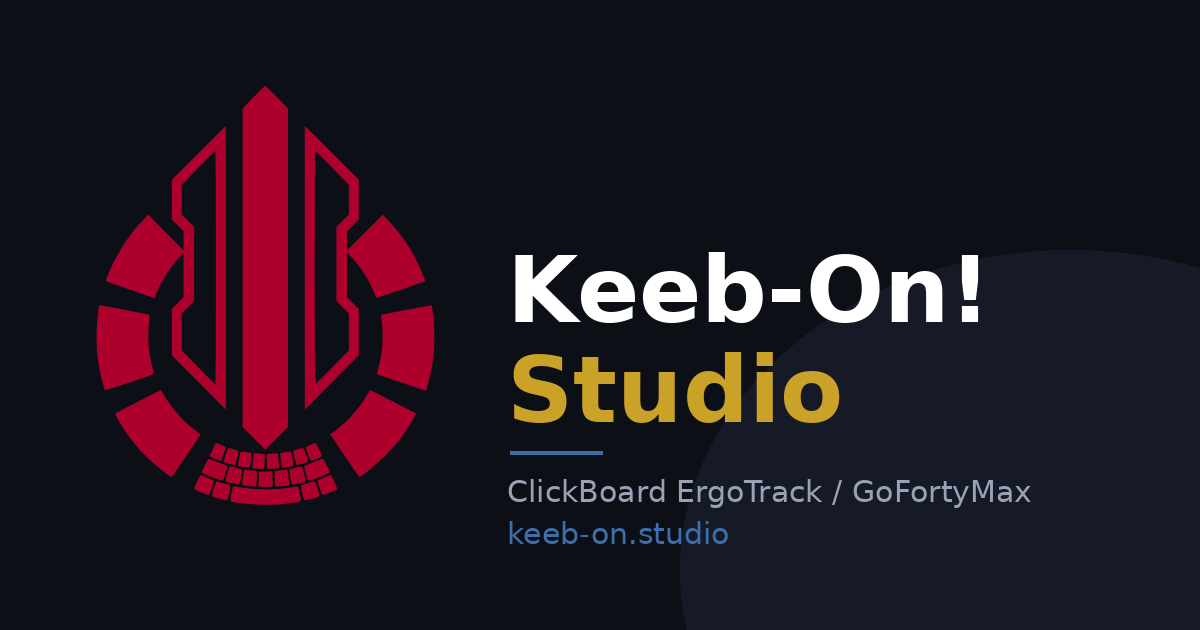
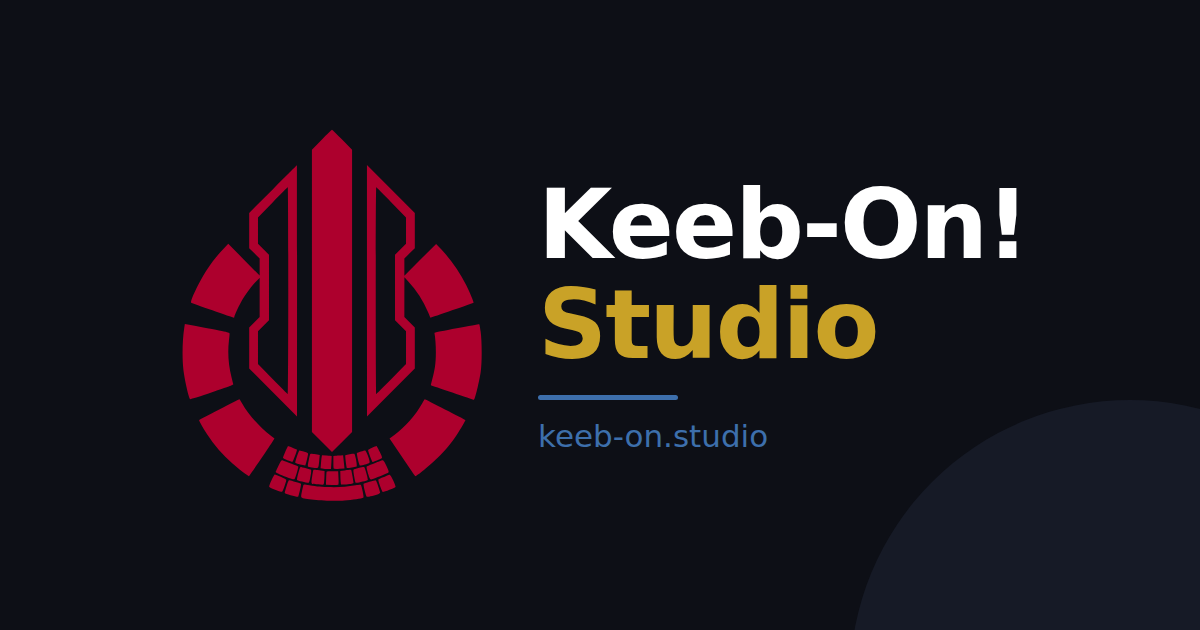
Stop naming two keyboards in the parts that outlive them
More keyboards are planned, so a banner and a welcome line that name exactly
two of them date themselves the moment a third arrives. The app still supports
only those two -- `supportedDevices.ts` is unchanged -- but the copy now says
whose keyboards they are rather than which.

The banner is also recentred. It was 73 pixels off: 96 of margin on the left
and 169 on the right, which is enough to read as a mistake rather than a
choice. With the keyboard line gone it is now 182 and 183.

Its source is checked in this time. The previous banner existed only as a PNG,
so removing one line from it meant sampling colours out of the pixels and
working out the font by rendering candidates and comparing letterforms. It was
DejaVu Sans, which is what the container's Chromium picks for sans-serif --
the app names Inter but has never shipped it. design/og-image.html and the
script that renders it mean the next change is an edit rather than an
excavation.

One thing the layout needed that the old one did not: the type block's right
edge is ragged, because "Keeb-On!" is wider than the lines beneath it.
Centring the box therefore leaves the ink looking a few pixels left of centre,
so the group is nudged to balance what you see rather than what the box
measures.

The Supported keyboards list still names both. That is a list of facts rather
than a claim about scope, and removing it would leave no answer to "will it
work with mine" -- so it waits on a decision rather than being quietly
[…]

Changed region(s): [[0.0617, 0.1206, 0.8633, 0.8143], [0.4008, 0.754, 0.8633, 0.8746]]

diff --git a/design/og-image.html b/design/og-image.html
@@ -1,0 +1,189 @@
+<!doctype html>
+<!--
+  Source for public/og-image.png -- the link preview card.
+
+  Render it with design/render-og-image.mjs, which screenshots this at
+  1200x630. Keep this file: the previous banner existed only as a PNG, so
+  changing one line of it meant measuring colours out of the pixels and
+  guessing the font.
+
+  Two things are deliberate. The font is DejaVu Sans because that is what the
+  original was rendered with, and anything else visibly changes the
+  letterforms. And no keyboard is named: more are planned, and a banner that
+  lists two of them dates itself the moment a third arrives.
+-->
+<html>
+  <head>
+    <meta charset="utf-8" />
+    <title>Keeb-On! Studio — link preview</title>
+    <style>
+      * {
+        margin: 0;
+        padding: 0;
+        box-sizing: border-box;
+      }
+      html,
+      body {
+        width: 1200px;
+        height: 630px;
+      }
+      body {
+        background: #0d0f16;
+        display: flex;
+        align-items: center;
+        justify-content: center;
+        font-family: "DejaVu Sans", sans-serif;
+        overflow: hidden;
+        position: relative;
+      }
+      /* A corner accent, kept clear of the type. */
+      .disc {
+        position: absolute;
+        right: -210px;
+        bottom: -330px;
+        width: 560px;
+        height: 560px;
+        border-radius: 50%;
+        background: #161a26;
+      }
+      .group {
+        display: flex;
+        align-items: center;
+        gap: 56px;
+        position: relative;
+        z-index: 1;
+        /* The type's right edge is ragged -- "Keeb-On!" is wider than the lines
+       under it -- so centring the box leaves it looking a few pixels left.
+       This balances the ink rather than the box. */
+        transform: translateX(5px);
+      }
+      .mark {
+        width: 300px;
+        height: 372px;
+        display: block;
+      }
+      .mark svg {
+        width: 100%;
+        height: 100%;
+        display: block;
+      }
+      .words {
+        display: flex;
+        flex-direction: column;
+      }
+      .name {
+        font-size: 96px;
+        font-weight: 700;
+        color: #ffffff;
+        letter-spacing: -0.02em;
+        line-height: 1.04;
+      }
+      .studio {
+        font-size: 96px;
+        font-weight: 700;
+        color: #c9a227;
+        letter-spacing: -0.02em;
+        line-height: 1.04;
+      }
+      .rule {
+        width: 140px;
+        height: 5px;
+        background: #3d6fac;
+        margin: 20px 0 18px;
+        border-radius: 3px;
+      }
+      .url {
+        font-size: 31px;
+        font-weight: 400;
+        color: #3d6fac;
+      }
+    </style>
+  </head>
+  <body>
+    <div class="disc"></div>
+    <div class="group">
+      <span class="mark"
+        ><svg xmlns="http://www.w3.org/2000/svg" viewBox="0 0 545 676">
+          <g transform="translate(0,676) scale(0.1,-0.1)">
+            <path
+              fill="#ad002d"
+              stroke="none"
+              d="M2538 6566 l-178 -183 0 -2564 0 -2564 183 -183 182 -182 183 183
+182 182 0 2564 0 2564 -177 181 c-98 100 -182 182 -188 183 -5 1 -90 -81 -187
+-181z M1652 5667 l-432 -432 0 -320 0 -320 95 -95 95 -95 0 -154 0 -155 -285
+290 -285 289 -81 -85 c-115 -121 -198 -225 -301 -380 -134 -201 -319 -586
+-292 -609 9 -8 763 -271 777 -271 4 0 7 6 7 13 0 25 91 221 145 313 69 117
+186 272 259 344 l56 54 0 -355 0 -354 -95 -95 -95 -95 0 -373 0 -373 435 -437
+434 -437 1 2283 c0 1255 -1 2282 -3 2282 -1 0 -197 -195 -435 -433z m278
+-1848 c0 -1104 -4 -1879 -9 -1877 -5 2 -129 125 -275 274 l-266 272 0 297 0
+298 100 102 100 101 0 595 0 594 -100 100 -100 100 0 239 0 239 266 273 c147
+151 270 274 275 274 5 0 9 -797 9 -1881z M3360 3820 l1 -2285 434 437 435 438
+0 372 0 373 -95 95 -95 95 0 360 1 360 66 -70 c153 -163 277 -353 362 -560 23
+-54 43 -101 45 -103 4 -3 775 264 783 271 7 8 -68 188 -134 321 -121 242 -272
+459 -449 645 l-97 102 -289 -288 -288 -288 0 155 0 155 95 95 95 95 0 320 0
+320 -435 435 -435 435 0 -2285z m444 1606 l266 -274 0 -239 0 -238 -100 -100
+-100 -100 0 -594 0 -595 100 -101 100 -102 0 -298 0 -297 -266 -272 c-147
+-149 -271 -272 -275 -274 -5 -2 -9 842 -9 1877 0 1053 4 1881 9 1881 4 0 128
+-123 275 -274z M41 3151 c-35 -214 -42 -558 -16 -770 24 -190 97 -508 123
+-532 4 -4 183 52 397 125 301 101 389 134 386 146 -2 8 -16 66 -32 129 -56
+219 -72 446 -47 663 6 57 12 114 12 128 1 26 -3 27 -736 163 l-77 14 -10 -66z
+M4990 3140 c-223 -41 -404 -79 -404 -83 31 -173 35 -455 10 -617 -9 -58 -30
+-156 -47 -219 -16 -62 -29 -115 -27 -116 4 -3 778 -265 783 -265 17 0 95 326
+122 505 25 172 24 551 -1 733 -10 73 -21 134 -25 135 -3 2 -188 -31 -411 -73z
+M676 1664 c-198 -101 -362 -187 -365 -190 -9 -8 55 -124 138 -251 132 -202
+293 -389 462 -539 110 -97 288 -234 305 -234 9 0 464 671 464 685 0 2 -35 30
+-77 61 -183 135 -402 381 -508 570 -26 46 -50 84 -54 84 -3 0 -168 -84 -365
+-186z M4360 1768 c-107 -195 -320 -435 -502 -567 l-87 -63 230 -344 c126 -189
+233 -344 239 -344 27 0 272 201 401 330 161 160 244 260 353 425 74 111 162
+263 155 269 -11 9 -731 376 -737 376 -4 0 -27 -37 -52 -82z M1876 896 c-26
+-58 -45 -109 -42 -114 9 -14 164 -75 174 -68 11 7 87 214 81 220 -4 4 -158 66
+-163 66 -1 0 -24 -47 -50 -104z M3453 968 c-40 -17 -73 -36 -73 -42 0 -23 73
+-216 82 -216 11 0 146 56 167 69 11 7 4 30 -37 115 -28 58 -54 106 -59 106 -4
+-1 -41 -15 -80 -32z M2087 809 c-29 -87 -35 -114 -25 -120 26 -16 171 -50 178
+-42 9 9 50 185 50 212 0 12 -18 22 -67 35 -38 10 -75 20 -83 23 -11 3 -24 -24
+-53 -108z M3250 898 c-36 -11 -68 -23 -72 -27 -9 -8 38 -211 51 -224 5 -5 48
+3 95 17 75 23 86 30 85 49 0 38 -65 202 -80 204 -8 1 -43 -8 -79 -19z M2326
+843 c-18 -60 -45 -208 -38 -214 8 -8 127 -29 164 -29 28 0 30 7 44 166 l7 71
+-71 11 c-93 16 -100 15 -106 -5z M3023 846 c-28 -6 -54 -13 -57 -16 -6 -6 21
+-221 29 -229 3 -2 45 2 93 10 l87 14 -1 40 c0 22 -9 75 -18 118 -18 76 -18 77
+-50 76 -17 -1 -54 -6 -83 -13z M2537 799 c-4 -19 -9 -73 -13 -120 l-7 -86 54
+-6 c30 -4 73 -7 95 -7 l41 0 7 116 c4 64 6 118 4 120 -3 2 -43 7 -90 10 l-85
+7 -6 -34z M2788 823 l-38 -4 0 -115 c0 -93 3 -116 15 -120 9 -4 54 -3 101 1
+l86 7 -6 59 c-3 32 -9 86 -12 119 l-7 60 -51 -2 c-28 -1 -68 -3 -88 -5z M1750
+638 c-28 -57 -50 -107 -50 -111 0 -12 128 -69 239 -107 78 -26 96 -29 106 -18
+16 17 74 214 66 226 -3 5 -37 19 -76 32 -38 13 -101 36 -139 52 -38 15 -75 28
+-83 28 -8 0 -35 -44 -63 -102z M3600 725 c-14 -7 -74 -30 -134 -51 -59 -20
+-110 -43 -113 -50 -6 -15 45 -197 62 -220 11 -15 16 -15 66 1 89 29 253 97
+268 111 12 11 7 28 -34 118 -53 114 -61 121 -115 91z M2141 598 c-23 -60 -58
+-207 -52 -217 9 -13 194 -56 213 -49 17 7 56 224 42 238 -7 7 -171 50 -190 50
+-2 0 -8 -10 -13 -22z M3205 598 c-44 -11 -84 -23 -89 -28 -5 -5 -1 -49 8 -102
+25 -140 24 -138 47 -138 35 0 198 41 205 51 5 9 -36 170 -56 217 -11 26 -11
+26 -115 0z M2386 562 c-3 -5 -13 -60 -23 -122 -14 -94 -15 -113 -3 -120 12 -7
+74 -15 190 -23 23 -2 26 2 32 48 3 28 7 84 7 126 l1 76 -67 7 c-38 4 -82 9
+-99 12 -18 3 -34 1 -38 -4z M2955 556 l-80 -11 3 -120 c2 -65 7 -122 12 -125
+13 -8 179 8 206 19 l21 9 -18 111 c-9 60 -20 115 -24 120 -7 13 -12 12 -120
+-3z M2627 533 c-3 -5 -6 -60 -8 -123 l-4 -115 109 -3 c60 -1 113 1 117 5 5 5
+6 61 2 126 l-6 117 -103 0 c-57 0 -105 -3 -107 -7z M1626 375 c-27 -57 -46
+-110 -43 -117 6 -16 178 -89 215 -91 24 -2 28 5 64 103 23 62 36 110 31 118
+-8 13 -187 92 -208 92 -6 0 -33 -47 -59 -105z M3740 470 c-8 -5 -46 -22 -85
+-37 -38 -14 -76 -32 -83 -38 -10 -9 -5 -33 25 -119 21 -60 44 -111 51 -113 14
+-6 218 75 231 91 6 7 -11 53 -41 119 -51 107 -63 119 -98 97z M1935 370 c-16
+-27 -73 -212 -69 -225 7 -16 233 -80 244 -68 12 13 60 227 52 235 -4 4 -48 19
+-97 33 -50 14 -97 28 -107 31 -9 3 -19 0 -23 -6z M3406 349 c-55 -16 -103 -32
+-107 -36 -10 -12 44 -232 58 -237 12 -5 161 32 216 53 15 6 27 17 27 24 0 17
+-54 177 -69 206 -7 11 -15 20 -19 20 -4 -1 -52 -14 -106 -30z M2205 289 c-2
+-8 -14 -58 -26 -113 -17 -82 -18 -101 -7 -112 41 -40 545 -76 778 -55 144 13
+322 40 341 52 11 6 9 28 -9 116 -12 59 -26 111 -31 116 -6 6 -45 3 -98 -7
+-166 -30 -311 -39 -503 -33 -164 6 -221 12 -397 42 -32 6 -44 4 -48 -6z"
+            />
+          </g></svg
+      ></span>
+      <div class="words">
+        <div class="name">Keeb-On!</div>
+        <div class="studio">Studio</div>
+        <div class="rule"></div>
+        <div class="url">keeb-on.studio</div>
+      </div>
+    </div>
+  </body>
+</html>

diff --git a/src/pages/HomePage.tsx b/src/pages/HomePage.tsx
@@ -77,8 +77,8 @@ export function HomePage() {
               <p className="text-sm text-[var(--color-text-muted)] mt-1">
                 {language === "ja" ? (
                   <>
-                    Keeb-On! Studio は ClickBoard ErgoTrack と GoFortyMax
-                    向けの、もう一つの{" "}
+                    Keeb-On! Studio は Salicylic_acid3
+                    が開発するキーボード向けの、もう一つの{" "}
                     <a
                       href="https://zmk.studio/"
                       target="_blank"
@@ -109,7 +109,7 @@ export function HomePage() {
                     >
                       ZMK Studio
                     </a>{" "}
-                    for ClickBoard ErgoTrack and GoFortyMax, forked from{" "}
+                    for the keyboards Salicylic_acid3 develops, forked from{" "}
                     <a
                       href="https://github.com/cormoran/dya-studio"
                       target="_blank"
@@ -229,8 +229,7 @@ export function HomePage() {
                 {language === "ja" ? (
                   <>
                     A: いいえ。Keeb-On! Studio は Salicylic_acid3
-                    が開発するキーボード（ClickBoard ErgoTrack、GoFortyMax
-                    など）に特化したツールで、一般の ZMK
+                    が開発するキーボードに特化したツールで、一般の ZMK
                     キーボードには対応していません。
                     <br />
                     一般的な ZMK
@@ -257,8 +256,8 @@ export function HomePage() {
                 ) : (
                   <>
                     A: No — Keeb-On! Studio is specialized for the keyboards
-                    Salicylic_acid3 develops (such as ClickBoard ErgoTrack and
-                    GoFortyMax) and does not support general ZMK keyboards.
+                    Salicylic_acid3 develops, and does not support general ZMK
+                    keyboards.
                     <br />
                     If you want a similar tool for a general ZMK keyboard,
                     please use the upstream{" "}
@@ -283,9 +282,7 @@ export function HomePage() {
                   </>
                 )}
                 <br />
-                {t(
-                  "ClickBoard ErgoTrack and GoFortyMax firmware support is in progress.",
-                )}
+                {t("Firmware support is in progress.")}
                 <div className="mt-2 p-3 rounded bg-[var(--color-warning)]/20 border border-[var(--color-warning)] text-[var(--color-warning)] text-xs">
                   {t(
                     "Warning: cormoran's ZMK fork is very experimental, optimized for DYA keyboards and may contain unstable or breaking changes. Use at your own risk. In rare cases, it may cause malfunction or damage to your keyboard hardware.",

diff --git a/src/i18n/translations.ts b/src/i18n/translations.ts
@@ -9,6 +9,7 @@ export const languageLabels: Record<Language, string> = {
 };
 
 const ja: Record<string, string> = {
+  "Firmware support is in progress.": "ファームウェア対応は進行中です。",
   "Keymap gallery": "キーマップギャラリー",
   "Browse the gallery…": "ギャラリーを見る…",
   "Keymaps other people published.": "他の人が公開したキーマップです。",
@@ -263,8 +264,6 @@ const ja: Record<string, string> = {
   "Coming Soon": "近日公開",
   "Q: Can my keyboard support Keeb-On! Studio?":
     "Q: 自分のキーボードは Keeb-On! Studio に対応できますか？",
-  "ClickBoard ErgoTrack and GoFortyMax firmware support is in progress.":
-    "ClickBoard ErgoTrack と GoFortyMax のファームウェア対応は現在進行中です。",
   "Warning: cormoran's ZMK fork is very experimental, optimized for DYA keyboards and may contain unstable or breaking changes. Use at your own risk. In rare cases, it may cause malfunction or damage to your keyboard hardware.":
     "警告: cormoran の ZMK fork は非常に実験的で、DYA キーボード向けに最適化されています。不安定な変更や破壊的変更を含む可能性があります。自己責任で使用してください。まれにキーボードハードウェアの誤動作や損傷につながる場合があります。",
   "Q: Can I get source code of Keeb-On! Studio?":
@@ -1522,6 +1521,7 @@ const ja: Record<string, string> = {
 };
 
 const zh: Record<string, string> = {
+  "Firmware support is in progress.": "固件支持正在进行中。",
   "Keymap gallery": "键映射图库",
   "Browse the gallery…": "浏览图库…",
   "Keymaps other people published.": "其他人公开的键映射。",
@@ -1762,8 +1762,6 @@ const zh: Record<string, string> = {
   "Coming Soon": "即将推出",
   "Q: Can my keyboard support Keeb-On! Studio?":
     "Q: 我的键盘可以使用 Keeb-On! Studio 吗？",
-  "ClickBoard ErgoTrack and GoFortyMax firmware support is in progress.":
-    "ClickBoard ErgoTrack 和 GoFortyMax 的固件支持正在开发中。",
   "Warning: cormoran's ZMK fork is very experimental, optimized for DYA keyboards and may contain unstable or breaking changes. Use at your own risk. In rare cases, it may cause malfunction or damage to your keyboard hardware.":
     "警告：cormoran 的 ZMK 分支非常实验性，针对 DYA 键盘进行了优化，可能包含不稳定或破坏性更改。使用风险自负。在极少数情况下，可能导致键盘硬件故障或损坏。",
   "Q: Can I get source code of Keeb-On! Studio?":

diff --git a/src/components/SplashScreen.tsx b/src/components/SplashScreen.tsx
@@ -197,7 +197,7 @@ export function SplashScreen({
               Studio
             </h1>
             <p className="mt-2 text-[11px] uppercase tracking-[0.32em] text-[var(--color-text-muted)]">
-              ClickBoard &amp; GoForty
+              Salicylic_acid3 Keyboards
             </p>
           </div>
 
